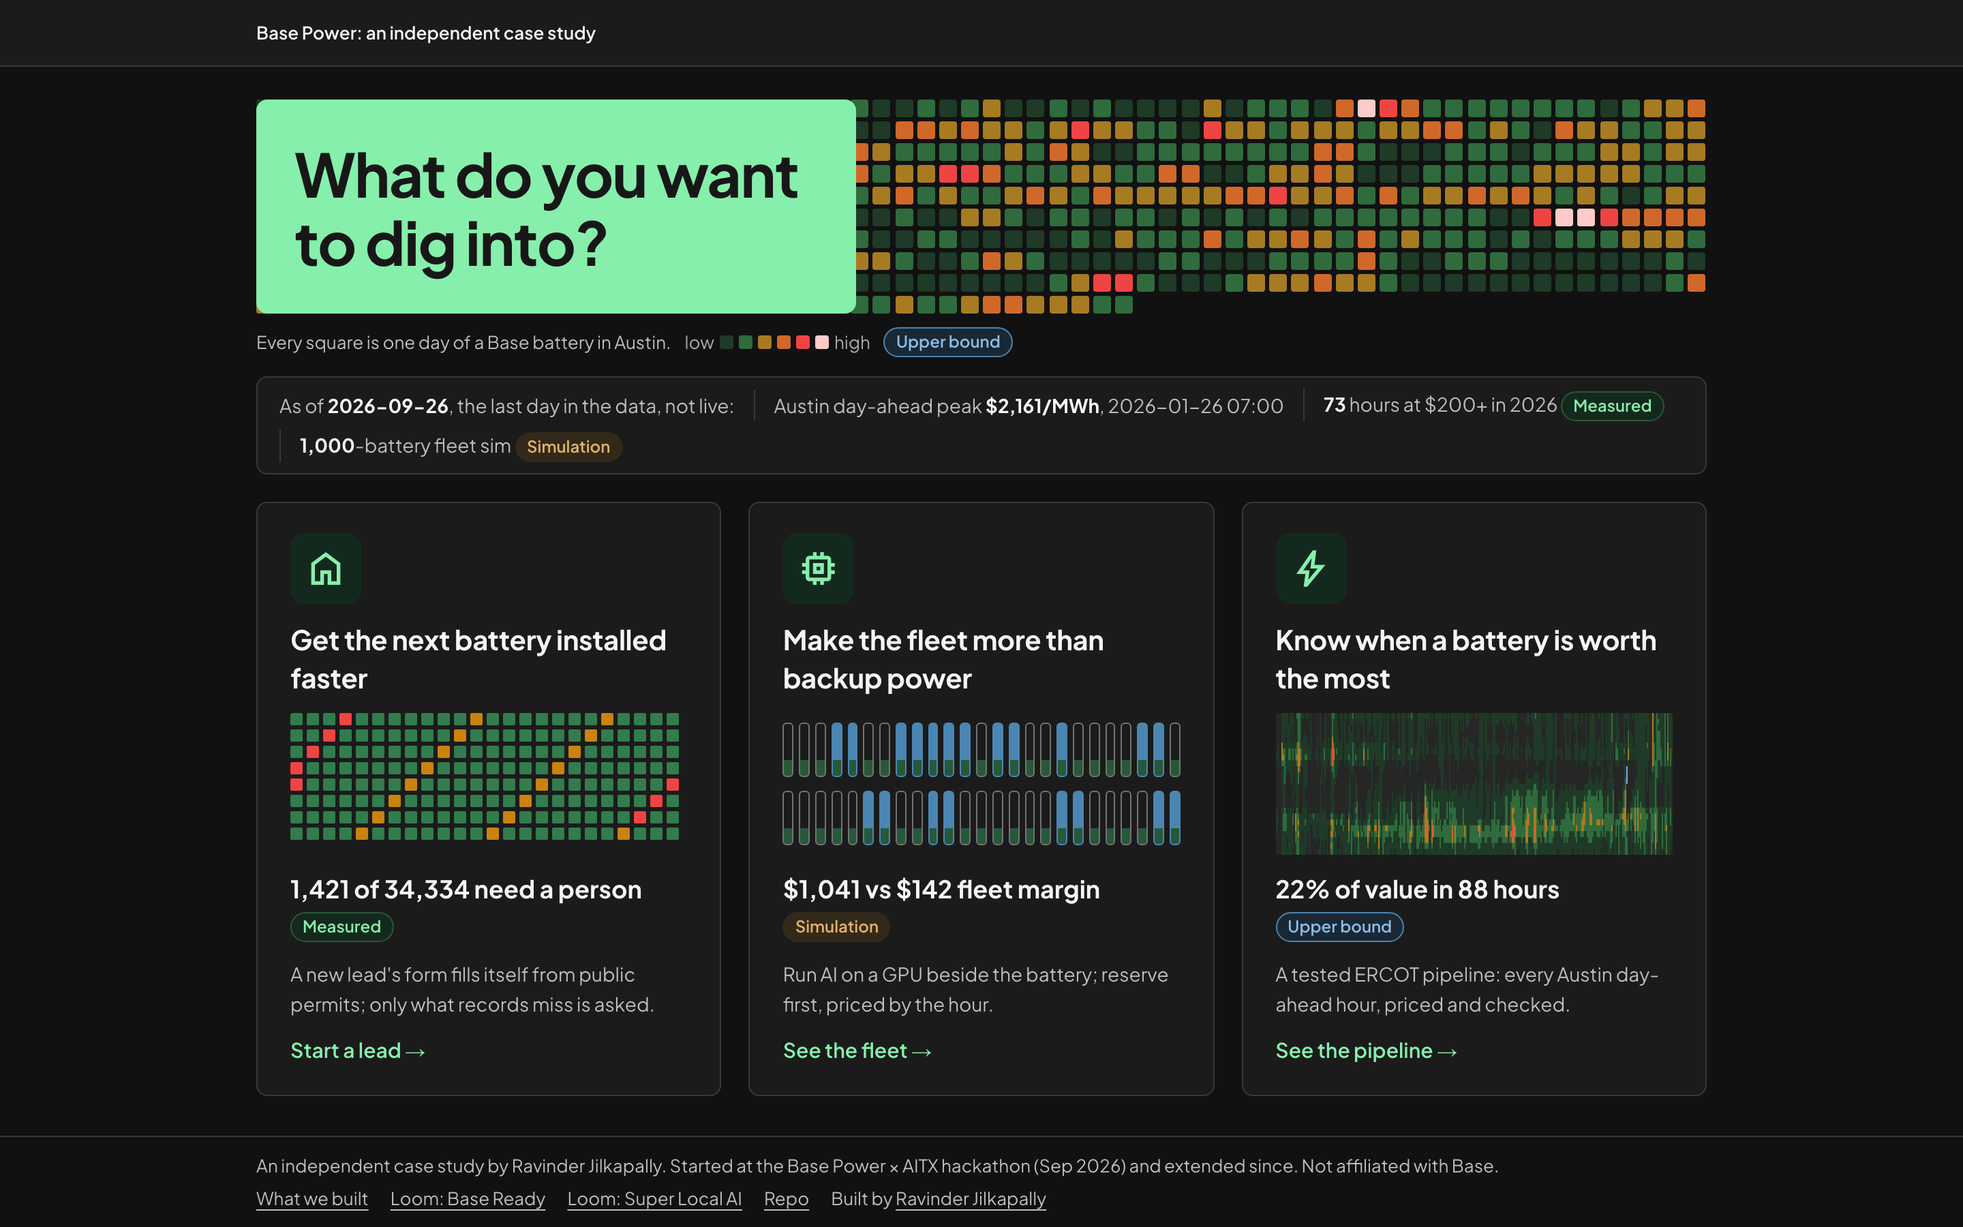
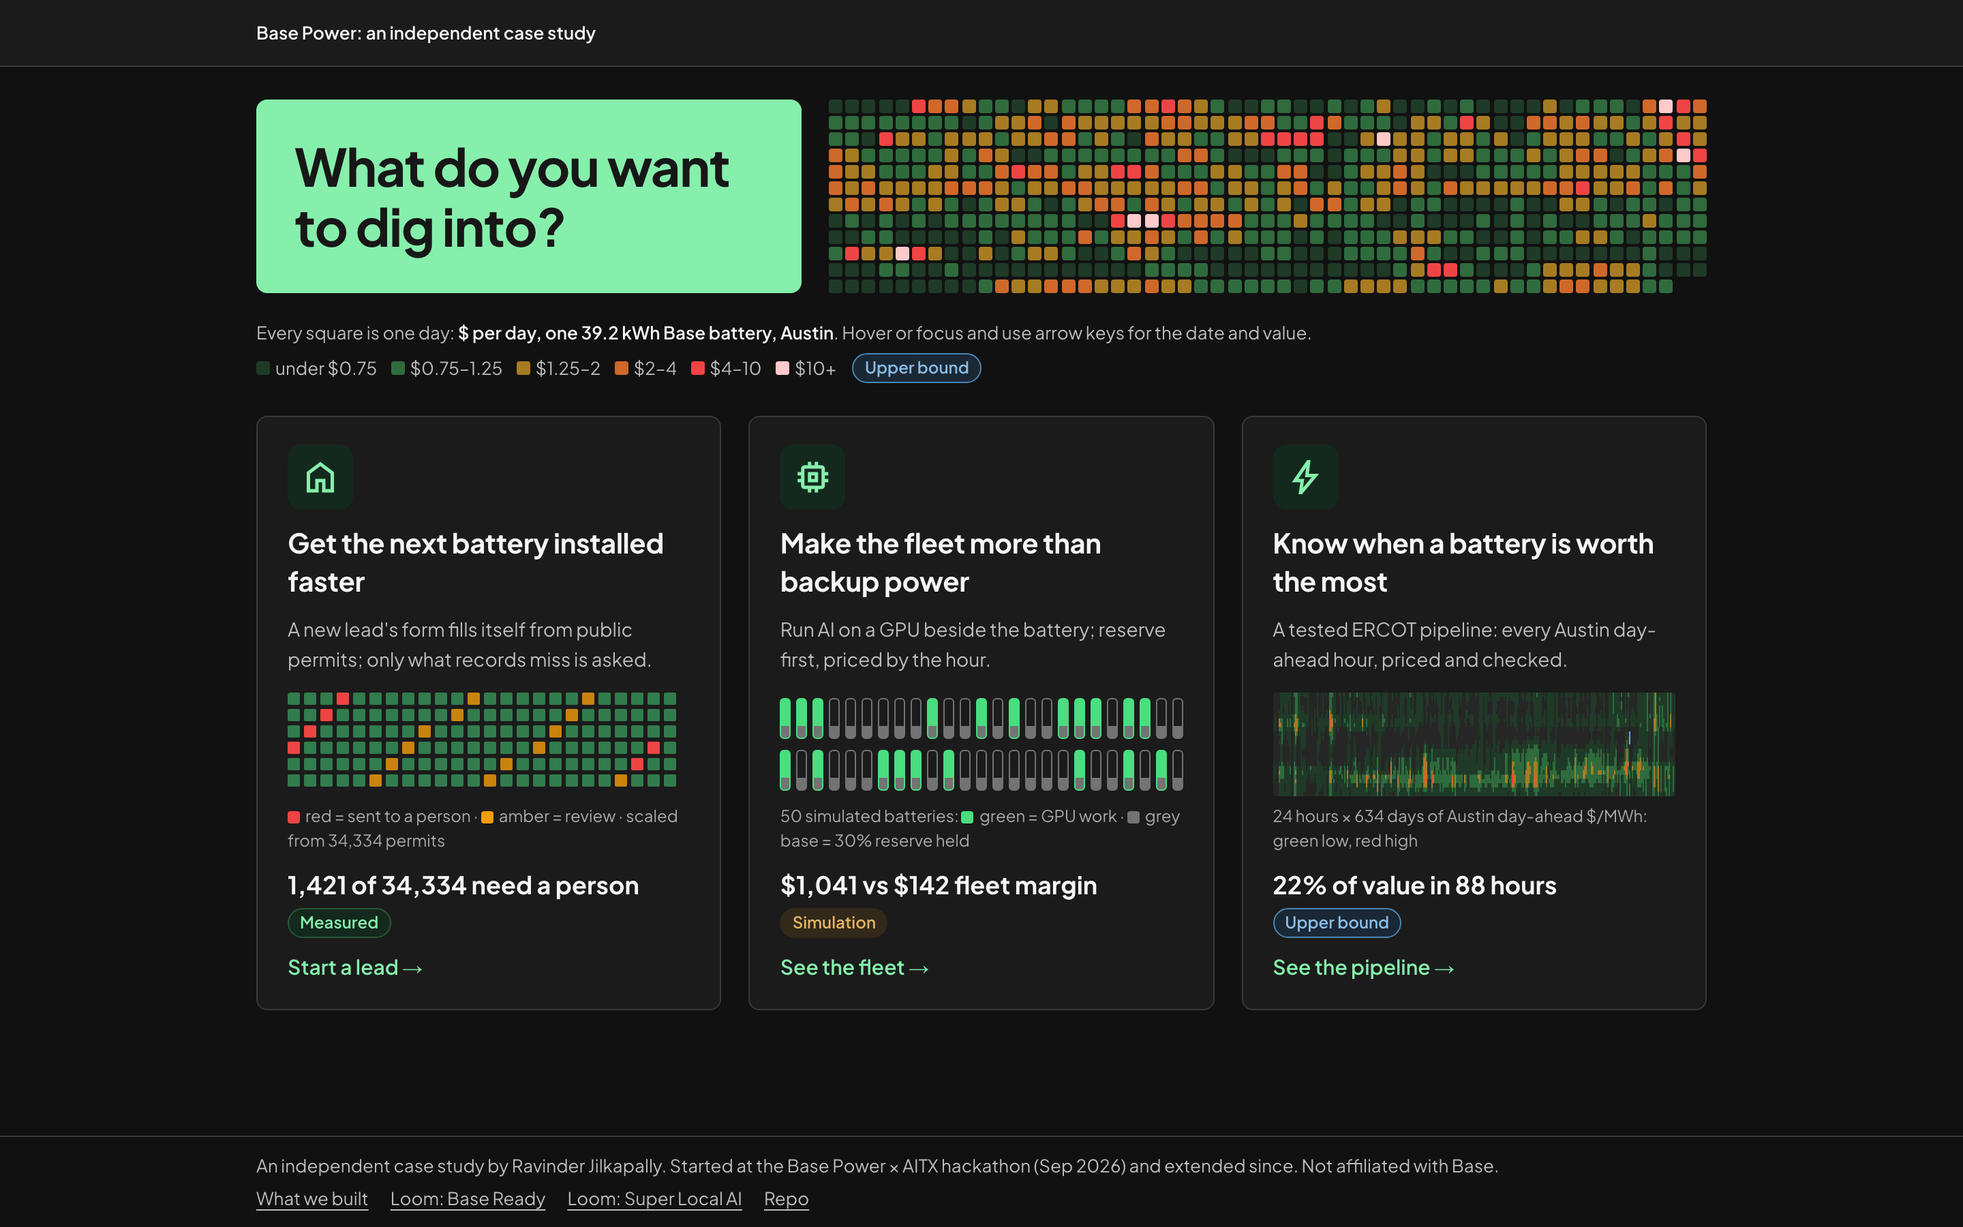
landing: UX fixes — labelled $/day grid, all days visible, keyed card visuals, one meaning per colour
- hero legend in $ per day with breakpoints; hover/arrow-key tooltip; role=img summary
- H1 panel beside the grid (no hidden days); "as of" strip removed
- blue only for Upper bound; GPU work green; fill state grey
- each card: sentence, visual + key, number + tag, CTA; icon names hidden from link text
- footer names the author once

Claude-Session: https://claude.ai/code/session_01MhZ4defSvUL2RRn7pbkeyv

diff --git a/web/start.html b/web/start.html
@@ -20,45 +20,50 @@
   .top { border-bottom: 1px solid var(--bf-line); background: var(--bf-surface); }
   .top .wrap { height: 48px; display: flex; align-items: center; font: var(--bf-text-label); }
   main { flex: 1; padding: 24px 0 28px; }
-  /* Hero: the 634-day band, H1 on a solid brand panel over its left side. */
-  .band { margin: 0; position: relative; }
-  .days-sq { display: grid; grid-template-columns: repeat(auto-fill, 13px); gap: 3px; justify-content: space-between; }
-  .days-sq i { width: 13px; height: 13px; border-radius: 2px; background: var(--bf-line); }
-  .hero-panel { position: absolute; left: 0; top: 0; bottom: 0; width: min(440px, 42%); background: var(--bf-brand); color: var(--bf-on-brand); border-radius: var(--bf-radius-lg); padding: 24px 28px; display: flex; align-items: center; }
-  h1 { font: 700 44px/50px var(--bf-font); letter-spacing: -0.02em; margin: 0; }
-  .band figcaption { margin-top: 10px; font: var(--bf-text-small); font-size: 13px; color: var(--bf-muted); display: flex; flex-wrap: wrap; align-items: center; gap: 6px 10px; }
-  .band .days-wrap { position: relative; }
-  .ramp { display: inline-flex; align-items: center; gap: 4px; color: var(--bf-faint); }
+  /* Hero: H1 panel beside the 634-day band (no overlap), legend with units below. */
+  .band { margin: 0; display: grid; grid-template-columns: 400px minmax(0, 1fr); gap: 20px; align-items: stretch; }
+  .hero-panel { background: var(--bf-brand); color: var(--bf-on-brand); border-radius: var(--bf-radius-lg); padding: 24px 28px; display: flex; align-items: center; }
+  h1 { font: 700 38px/44px var(--bf-font); letter-spacing: -0.02em; margin: 0; }
+  .days { position: relative; min-width: 0; }
+  .days-sq { display: grid; grid-template-columns: repeat(auto-fill, 10px); gap: 2px; justify-content: space-between; border-radius: 2px; }
+  .days-sq:focus-visible { outline: 3px solid var(--bf-focus); outline-offset: 4px; }
+  .days-sq i { width: 10px; height: 10px; border-radius: 2px; background: var(--bf-line); }
+  .days-sq i.sel { outline: 2px solid var(--bf-ink); outline-offset: 1px; }
+  .tip { position: absolute; z-index: 5; pointer-events: none; padding: 4px 8px; border-radius: var(--bf-radius); background: var(--bf-ink); color: var(--bf-bg); font: 600 12px/18px var(--bf-font); white-space: nowrap; transform: translate(-50%, -100%); }
+  .tip[hidden] { display: none; }
+  .band figcaption { grid-column: 1 / -1; font: var(--bf-text-small); font-size: 13px; color: var(--bf-muted); display: flex; flex-wrap: wrap; align-items: center; gap: 6px 12px; }
+  .band figcaption b { color: var(--bf-ink); font-weight: 600; }
+  .ramp { display: inline-flex; flex-wrap: wrap; align-items: center; gap: 4px 10px; color: var(--bf-muted); }
+  .ramp span { display: inline-flex; align-items: center; gap: 4px; }
   .ramp i { width: 10px; height: 10px; border-radius: 2px; }
   .tag { display: inline-block; padding: 0 8px; border-radius: var(--bf-radius-pill); border: 1px solid var(--bf-line); font: 600 12px/20px var(--bf-font); white-space: nowrap; }
   .tag.m { background: var(--bf-brand-tint); border-color: var(--bf-brand-soft); color: var(--bf-brand); }
   .tag.s { background: var(--bf-amber-tint); border-color: transparent; color: var(--bf-amber); }
   .tag.u { background: var(--bf-blue-tint); border-color: var(--bf-blue-line); color: var(--bf-blue); }
-  /* Dated figures strip. */
-  .facts { margin: 14px 0 0; padding: 8px 16px; border: 1px solid var(--bf-line); border-radius: var(--bf-radius-lg); background: var(--bf-surface); display: flex; flex-wrap: wrap; align-items: center; gap: 6px 14px; font: var(--bf-text-body); color: var(--bf-muted); }
-  .facts b { color: var(--bf-ink); font-weight: 700; }
-  .facts .sep { display: none; }
-  .facts > span + span { padding-left: 14px; border-left: 1px solid var(--bf-line); }
   /* Choices. */
-  .choices { list-style: none; margin: 20px 0 0; padding: 0; display: grid; grid-template-columns: repeat(3, minmax(0, 1fr)); gap: 20px; }
-  .choice { display: flex; flex-direction: column; gap: 12px; height: 100%; padding: 22px 24px; background: var(--bf-surface); border: 1px solid var(--bf-line); border-radius: var(--bf-radius-lg); text-decoration: none; transition: border-color .15s, transform .2s, box-shadow .2s; }
+  .choices { list-style: none; margin: 24px 0 0; padding: 0; display: grid; grid-template-columns: repeat(3, minmax(0, 1fr)); gap: 20px; }
+  .choice { display: flex; flex-direction: column; gap: 10px; height: 100%; padding: 20px 22px; background: var(--bf-surface); border: 1px solid var(--bf-line); border-radius: var(--bf-radius-lg); text-decoration: none; transition: border-color .15s, transform .2s, box-shadow .2s; }
   .choice:hover, .choice:focus-visible { border-color: var(--bf-brand); transform: translateY(-3px); box-shadow: var(--bf-shadow-card); }
-  .ico { width: 52px; height: 52px; border-radius: 10px; background: var(--bf-brand-tint); color: var(--bf-brand); display: inline-flex; align-items: center; justify-content: center; }
-  .ico .material-symbols-outlined { font-size: 32px; }
+  .ico { width: 48px; height: 48px; border-radius: 10px; background: var(--bf-brand-tint); color: var(--bf-brand); display: inline-flex; align-items: center; justify-content: center; }
+  .ico .material-symbols-outlined { font-size: 30px; }
+  .ico .material-symbols-outlined::before { content: attr(data-icon); }
   .choice b { font: 700 20px/28px var(--bf-font); letter-spacing: -0.01em; color: var(--bf-ink); }
-  .viz { height: 104px; display: block; overflow: hidden; border-radius: 2px; }
+  .viz { height: 76px; display: block; overflow: hidden; border-radius: 2px; margin-top: 4px; }
+  .key { font: var(--bf-text-small); color: var(--bf-faint); margin-top: -4px; }
+  .key i { display: inline-block; width: 9px; height: 9px; border-radius: 2px; vertical-align: -1px; margin-right: 4px; }
   .viz.permits { display: grid; grid-template-columns: repeat(auto-fill, 9px); grid-auto-rows: 9px; gap: 3px; align-content: start; }
   .viz.permits i { border-radius: 1px; background: var(--bf-solar); opacity: .5; transition: opacity .2s; }
   .viz.permits i.v { background: #f59e0b; opacity: .8; }
   .viz.permits i.p { background: #ef4444; opacity: 1; }
   .viz.permits i.off { opacity: 0; }
-  .viz.nodes { display: grid; grid-template-columns: repeat(25, minmax(0, 1fr)); gap: 10px 4px; align-content: center; }
-  .viz.nodes i { height: 40px; border-radius: 3px; border: 1px solid var(--bf-line-strong); background: linear-gradient(to top, var(--bf-brand-soft) 0 30%, transparent 30%); transition: background .3s, border-color .3s; }
-  .viz.nodes i.on { background: linear-gradient(to top, var(--bf-brand-soft) 0 30%, var(--bf-blue-line) 30% 100%); border-color: var(--bf-blue-line); }
-  .viz.strip canvas { height: 104px; display: block; transition: transform 3.5s ease-in-out; }
+  .viz.nodes { display: grid; grid-template-columns: repeat(25, minmax(0, 1fr)); gap: 8px 4px; align-content: center; }
+  .viz.nodes i { height: 30px; border-radius: 3px; border: 1px solid var(--bf-line-strong); background: linear-gradient(to top, var(--bf-line-strong) 0 30%, transparent 30%); transition: background .3s, border-color .3s; }
+  .viz.nodes i.on { background: linear-gradient(to top, var(--bf-line-strong) 0 30%, var(--bf-solar) 30% 100%); border-color: var(--bf-solar); }
+  .viz.strip canvas { height: 76px; display: block; transition: transform 3.5s ease-in-out; }
   .choice:hover .viz.strip canvas, .choice:focus-visible .viz.strip canvas { transform: translateX(var(--pan, 0px)); }
   .num { display: flex; flex-wrap: wrap; align-items: center; gap: 4px 8px; font: 700 18px/26px var(--bf-font); color: var(--bf-ink); }
-  .choice span.line { font: var(--bf-text-body); color: var(--bf-muted); flex: 1; }
+  .choice span.line { font: var(--bf-text-body); color: var(--bf-muted); }
+  .choice .num { margin-top: auto; }
   .choice .go { font: 600 15px/22px var(--bf-font); font-style: normal; color: var(--bf-brand); }
   footer { border-top: 1px solid var(--bf-line); color: var(--bf-muted); font: var(--bf-text-small); font-size: 13px; }
   footer .wrap { padding-top: 12px; padding-bottom: 12px; display: flex; flex-wrap: wrap; gap: 6px 20px; justify-content: space-between; }
@@ -67,21 +72,18 @@
   footer a:hover { color: var(--bf-ink); }
   @media (prefers-reduced-motion: reduce) { .choice, .choice:hover, .choice:focus-visible { transform: none; transition: none; } .viz.strip canvas { transition: none; } .choice:hover .viz.strip canvas { transform: none; } }
   @media (max-width: 960px) {
-    .days-wrap { display: flex; flex-direction: column-reverse; }
-    .hero-panel { position: static; width: auto; margin-bottom: 12px; }
+    .band { grid-template-columns: minmax(0, 1fr); }
     .choices { grid-template-columns: minmax(0, 1fr); max-width: 560px; }
   }
   @media (max-width: 640px) {
     .wrap { padding: 0 16px; }
-    .facts > span + span { padding-left: 0; border-left: 0; }
     main { padding: 16px 0 24px; }
     h1 { font-size: 32px; line-height: 38px; }
     .hero-panel { padding: 20px; }
-    .days-sq { grid-template-columns: repeat(auto-fill, 8px); gap: 2px; }
+    h1 { font-size: 32px; line-height: 38px; }
+    .days-sq { grid-template-columns: repeat(auto-fill, 8px); }
     .days-sq i { width: 8px; height: 8px; }
     .choice { padding: 20px; }
-    .viz { height: 88px; }
-    .viz.strip canvas { height: 88px; }
   }
 </style>
 <script defer src="/web/start.js"></script>
@@ -90,35 +92,38 @@
 <header class="top"><div class="wrap">Base Power: an independent case study</div></header>
 <main>
 <div class="wrap">
-<figure class="band" aria-labelledby="days-cap">
-<div class="days-wrap">
-<div class="days-sq" id="days-sq" aria-hidden="true"></div>
+<figure class="band" aria-labelledby="question">
 <div class="hero-panel"><h1 id="question">What do you want to dig into?</h1></div>
+<div class="days">
+<div class="days-sq" id="days-sq" role="img" tabindex="0" aria-label="634 days of battery value in Austin. Loading."></div>
+<div class="tip" id="days-tip" hidden></div>
 </div>
-<figcaption id="days-cap">Every square is one day of a Base battery in Austin. <span class="ramp" aria-hidden="true">low <i style="background:var(--er-h1)"></i><i style="background:var(--er-h2)"></i><i style="background:var(--er-h3)"></i><i style="background:var(--er-h4)"></i><i style="background:var(--er-h5)"></i><i style="background:var(--er-h6)"></i> high</span><span class="tag u">Upper bound</span></figcaption>
+<figcaption id="days-cap"><span>Every square is one day: <b>$ per day, one 39.2 kWh Base battery, Austin</b>. Hover or focus and use arrow keys for the date and value.</span><span class="ramp" aria-hidden="true"><span><i style="background:var(--er-h1)"></i>under $0.75</span><span><i style="background:var(--er-h2)"></i>$0.75&ndash;1.25</span><span><i style="background:var(--er-h3)"></i>$1.25&ndash;2</span><span><i style="background:var(--er-h4)"></i>$2&ndash;4</span><span><i style="background:var(--er-h5)"></i>$4&ndash;10</span><span><i style="background:var(--er-h6)"></i>$10+</span></span><span class="tag u">Upper bound</span></figcaption>
 </figure>
-<p class="facts" id="facts"><span>As of <b>2026-09-26</b>, the last day in the data, not live:</span><span>Austin day-ahead peak <b>$2,161/MWh</b>, 2026-01-26 07:00</span><span class="sep" aria-hidden="true">·</span><span><b>73</b> hours at $200+ in 2026 <span class="tag m">Measured</span></span><span class="sep" aria-hidden="true">·</span><span><b>1,000</b>-battery fleet sim <span class="tag s">Simulation</span></span></p>
 <ul class="choices" aria-labelledby="question">
 <li><a class="choice" id="choose-install" href="/web/onboarding.html?track=home&amp;persona=lead">
-<span class="ico" aria-hidden="true"><span class="material-symbols-outlined">home</span></span>
+<span class="ico" aria-hidden="true"><span class="material-symbols-outlined" data-icon="home" aria-hidden="true"></span></span>
 <b>Get the next battery installed faster</b>
-<span class="viz permits" id="viz-permits" aria-hidden="true"></span>
-<span class="num">1,421 of 34,334 need a person <span class="tag m">Measured</span></span>
 <span class="line">A new lead's form fills itself from public permits; only what records miss is asked.</span>
+<span class="viz permits" id="viz-permits" aria-hidden="true"></span>
+<span class="key"><i style="background:#ef4444"></i>red = sent to a person &middot; <i style="background:#f59e0b"></i>amber = review &middot; scaled from 34,334 permits</span>
+<span class="num">1,421 of 34,334 need a person <span class="tag m">Measured</span></span>
 <i class="go">Start a lead &#8594;</i></a></li>
 <li><a class="choice" id="choose-fleet" href="/web/overview.html?track=compute&amp;persona=fleet">
-<span class="ico" aria-hidden="true"><span class="material-symbols-outlined">memory</span></span>
+<span class="ico" aria-hidden="true"><span class="material-symbols-outlined" data-icon="memory" aria-hidden="true"></span></span>
 <b>Make the fleet more than backup power</b>
-<span class="viz nodes" id="viz-nodes" aria-hidden="true"></span>
-<span class="num">$1,041 vs $142 fleet margin <span class="tag s">Simulation</span></span>
 <span class="line">Run AI on a GPU beside the battery; reserve first, priced by the hour.</span>
+<span class="viz nodes" id="viz-nodes" aria-hidden="true"></span>
+<span class="key">50 simulated batteries: <i style="background:var(--bf-solar)"></i>green = GPU work &middot; <i style="background:var(--bf-line-strong)"></i>grey base = 30% reserve held</span>
+<span class="num">$1,041 vs $142 fleet margin <span class="tag s">Simulation</span></span>
 <i class="go">See the fleet &#8594;</i></a></li>
 <li><a class="choice" id="choose-ercot" href="/web/grid.html?track=home&amp;persona=operations">
-<span class="ico" aria-hidden="true"><span class="material-symbols-outlined">bolt</span></span>
+<span class="ico" aria-hidden="true"><span class="material-symbols-outlined" data-icon="bolt" aria-hidden="true"></span></span>
 <b>Know when a battery is worth the most</b>
-<span class="viz strip" id="viz-strip" aria-hidden="true"></span>
-<span class="num">22% of value in 88 hours <span class="tag u">Upper bound</span></span>
 <span class="line">A tested ERCOT pipeline: every Austin day-ahead hour, priced and checked.</span>
+<span class="viz strip" id="viz-strip" aria-hidden="true"></span>
+<span class="key">24 hours &times; 634 days of Austin day-ahead $/MWh: green low, red high</span>
+<span class="num">22% of value in 88 hours <span class="tag u">Upper bound</span></span>
 <i class="go">See the pipeline &#8594;</i></a></li>
 </ul>
 </div>
@@ -131,7 +136,6 @@
 <a href="https://www.loom.com/share/5cce9ad808a84c73a7346e334cf5e019" target="_blank" rel="noopener">Loom: Base Ready</a>
 <a href="https://www.loom.com/share/37a225004ab248bc874401470ef2653d" target="_blank" rel="noopener">Loom: Super Local AI</a>
 <a href="https://github.com/jravinder/base-aitx" target="_blank" rel="noopener">Repo</a>
-<span data-built-by>Built by <a href="https://www.linkedin.com/in/jravinder/" target="_blank" rel="noopener">Ravinder Jilkapally</a></span>
 </nav>
 </div>
 </footer>

diff --git a/web/start.js b/web/start.js
@@ -17,16 +17,43 @@
   const DAYBINS = [[0.75, '--er-h1'], [1.25, '--er-h2'], [2, '--er-h3'], [4, '--er-h4'], [10, '--er-h5'], [1e9, '--er-h6']];
   const HEAT = [[0, '--er-neg'], [25, '--er-h0'], [50, '--er-h1'], [100, '--er-h2'], [200, '--er-h3'], [500, '--er-h4'], [1000, '--er-h5'], [1e9, '--er-h6']];
   get('/web/data/ercot_warehouse.json').then(D => {
-    const vals = D.daily.LZ_AEN.value, box = $('days-sq');
-    box.innerHTML = '<i></i>'.repeat(vals.length);
+    const vals = D.daily.LZ_AEN.value, dates = D.daily.dates, box = $('days-sq'), tip = $('days-tip');
+    const usd = v => '$' + v.toFixed(2);
+    box.innerHTML = dates.map((d, i) => `<i title="${d}: ${usd(vals[i])}"></i>`).join('');
     const cells = [...box.children], fin = vals.map(v => `var(${DAYBINS.find(b => v < b[0])[1]})`);
+    // Summary for screen readers.
+    const sorted = [...vals].sort((x, y) => x - y), med = sorted[Math.floor(sorted.length / 2)], mx = vals.indexOf(sorted[sorted.length - 1]);
+    box.setAttribute('aria-label', `${vals.length} days, ${dates[0]} to ${dates[dates.length - 1]}: dollars per day for one 39.2 kWh Base battery in Austin, upper bound. Median ${usd(med)}; highest ${usd(vals[mx])} on ${dates[mx]}. Use arrow keys to read each day.`);
+    // Tooltip on hover, and on focus with arrow keys.
+    let sel = -1;
+    const show = i => {
+      if (sel >= 0) cells[sel].classList.remove('sel');
+      sel = i; if (i < 0) { tip.hidden = true; return; }
+      const c = cells[i], r = c.getBoundingClientRect(), p = box.parentElement.getBoundingClientRect();
+      c.classList.add('sel');
+      tip.textContent = `${dates[i]} · ${usd(vals[i])}`;
+      tip.hidden = false;
+      tip.style.left = Math.min(Math.max(r.left - p.left + r.width / 2, 60), p.width - 60) + 'px';
+      tip.style.top = (r.top - p.top - 6) + 'px';
+    };
+    cells.forEach((c, i) => { c.removeAttribute('title'); c.addEventListener('mouseenter', () => show(i)); });
+    box.addEventListener('mouseleave', () => { if (document.activeElement !== box) show(-1); });
+    box.addEventListener('focus', () => show(sel >= 0 ? sel : cells.length - 1));
+    box.addEventListener('blur', () => show(-1));
+    box.addEventListener('keydown', e => {
+      const cols = Math.max(1, Math.round(box.clientWidth / (cells[1].offsetLeft - cells[0].offsetLeft || 12)));
+      const step = {ArrowRight: 1, ArrowLeft: -1, ArrowDown: cols, ArrowUp: -cols, Home: -1e9, End: 1e9}[e.key];
+      if (step == null) return;
+      e.preventDefault();
+      show(Math.min(cells.length - 1, Math.max(0, (sel < 0 ? 0 : sel) + step)));
+    });
     if (reduce) cells.forEach((c, i) => c.style.background = fin[i]);
     else {
       const t0 = performance.now(), DUR = 2400, WAVE = 24;
       const tick = now => {
         const done = Math.round(Math.min(1, (now - t0) / DUR) * cells.length);
         for (let i = 0; i < cells.length; i++) {
-          const want = i < done - WAVE ? fin[i] : i < done ? 'var(--bf-blue)' : '';
+          const want = i < done - WAVE ? fin[i] : i < done ? 'var(--bf-line-strong)' : '';
           if (cells[i].style.background !== want) cells[i].style.background = want;
         }
         if (done < cells.length) requestAnimationFrame(tick); else cells.forEach((c, i) => c.style.background = fin[i]);
@@ -34,7 +61,7 @@
       requestAnimationFrame(tick);
     }
     // ERCOT card: hour x day heatmap of Austin day-ahead $/MWh, drawn 1.8x wider than the card so hover can pan it.
-    const G = D.heatmap.LZ_AEN, strip = $('viz-strip'), n = G.length, H = strip.clientHeight || 104;
+    const G = D.heatmap.LZ_AEN, strip = $('viz-strip'), n = G.length, H = strip.clientHeight || 76;
     const vw = Math.max(200, strip.clientWidth), W = Math.round(vw * 1.8), dpr = devicePixelRatio || 1;
     strip.innerHTML = `<canvas width="${Math.round(W * dpr)}" height="${H * dpr}" style="width:${W}px"></canvas>`;
     strip.style.setProperty('--pan', `${vw - W}px`);
